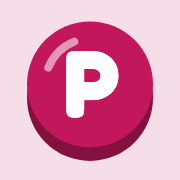
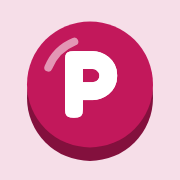
アイコンにてかりを入れて大きくする
小さい版にもてかりを入れ、Pを中央に寄せる。ヘッダーの表示は44pxにする。

diff --git a/scripts/generate_site.py b/scripts/generate_site.py
@@ -275,7 +275,7 @@ header { padding: 24px 16px 12px; max-width: 980px; margin: 0 auto; }
 header h1 a { text-decoration: none; font-size: 22px;
   display: inline-flex; align-items: center; gap: 8px; }
 /* ロゴは文字とほぼ同じ高さに揃える(96px画像を縮小して表示。姉妹サイトと同じ) */
-header h1 img { width: 32px; height: 32px; }
+header h1 img { width: 44px; height: 44px; }
 header p { color: var(--muted); font-size: 13px; margin-top: 4px; }
 nav.crumbs { font-size: 12px; color: var(--muted); margin-top: 8px; }
 nav.crumbs a { text-decoration: none; color: var(--accent); }
@@ -483,7 +483,7 @@ def page_shell(title: str, description: str, body: str, canonical: str, extra_he
 
     # 見出しの左に置くポチシリーズ共通のアイコン。画像が置かれていなければ何も出さない
     logo_img = (
-        '<img src="/assets/logo.png" alt="" width="32" height="32">'
+        '<img src="/assets/logo.png" alt="" width="44" height="44">'
         if has_asset("logo.png") else ""
     )
     icon_tags = []
